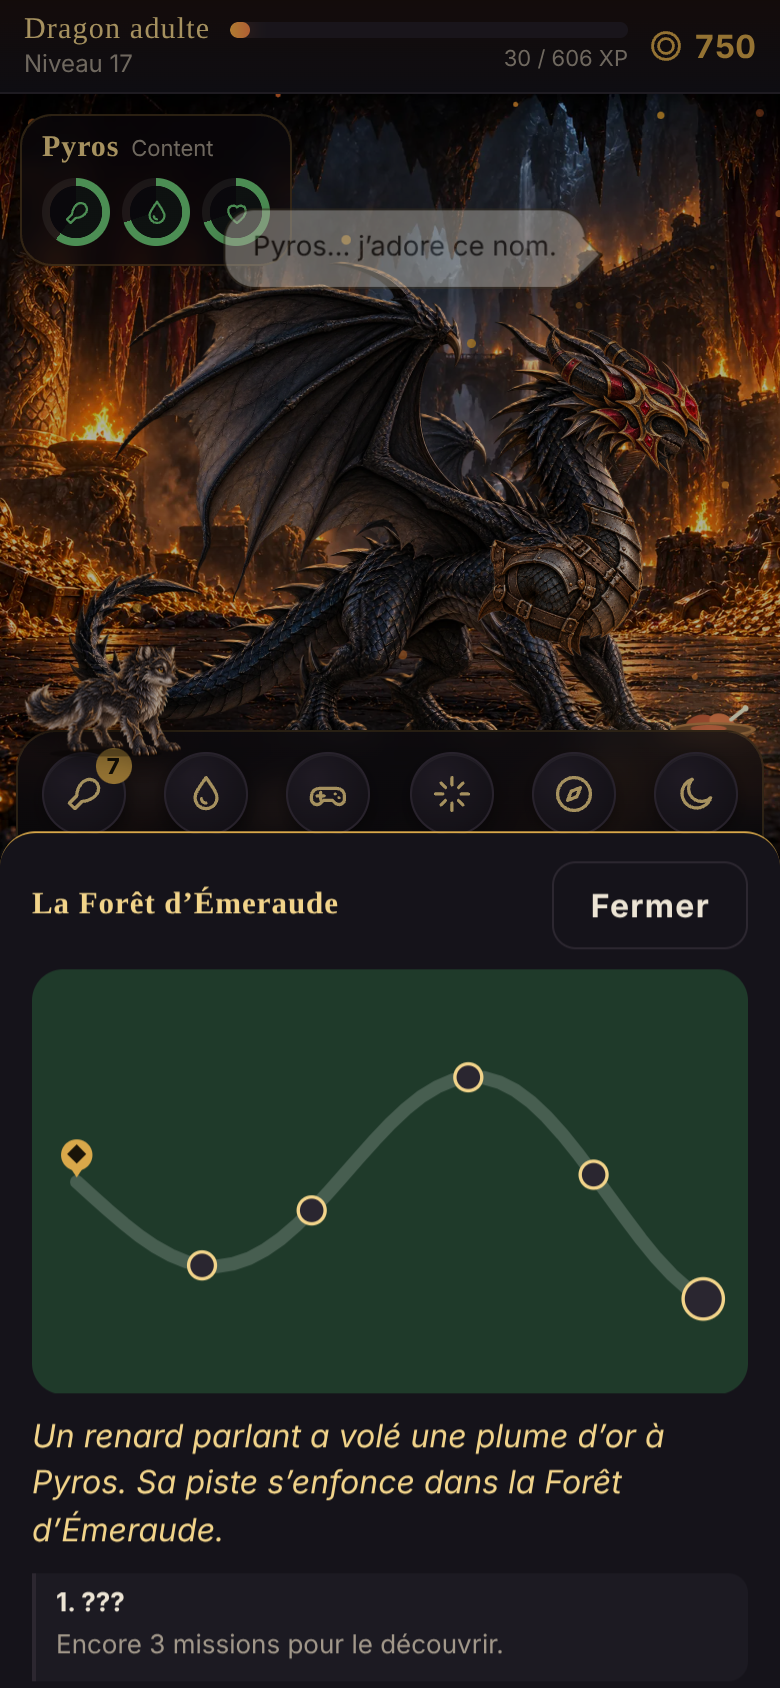
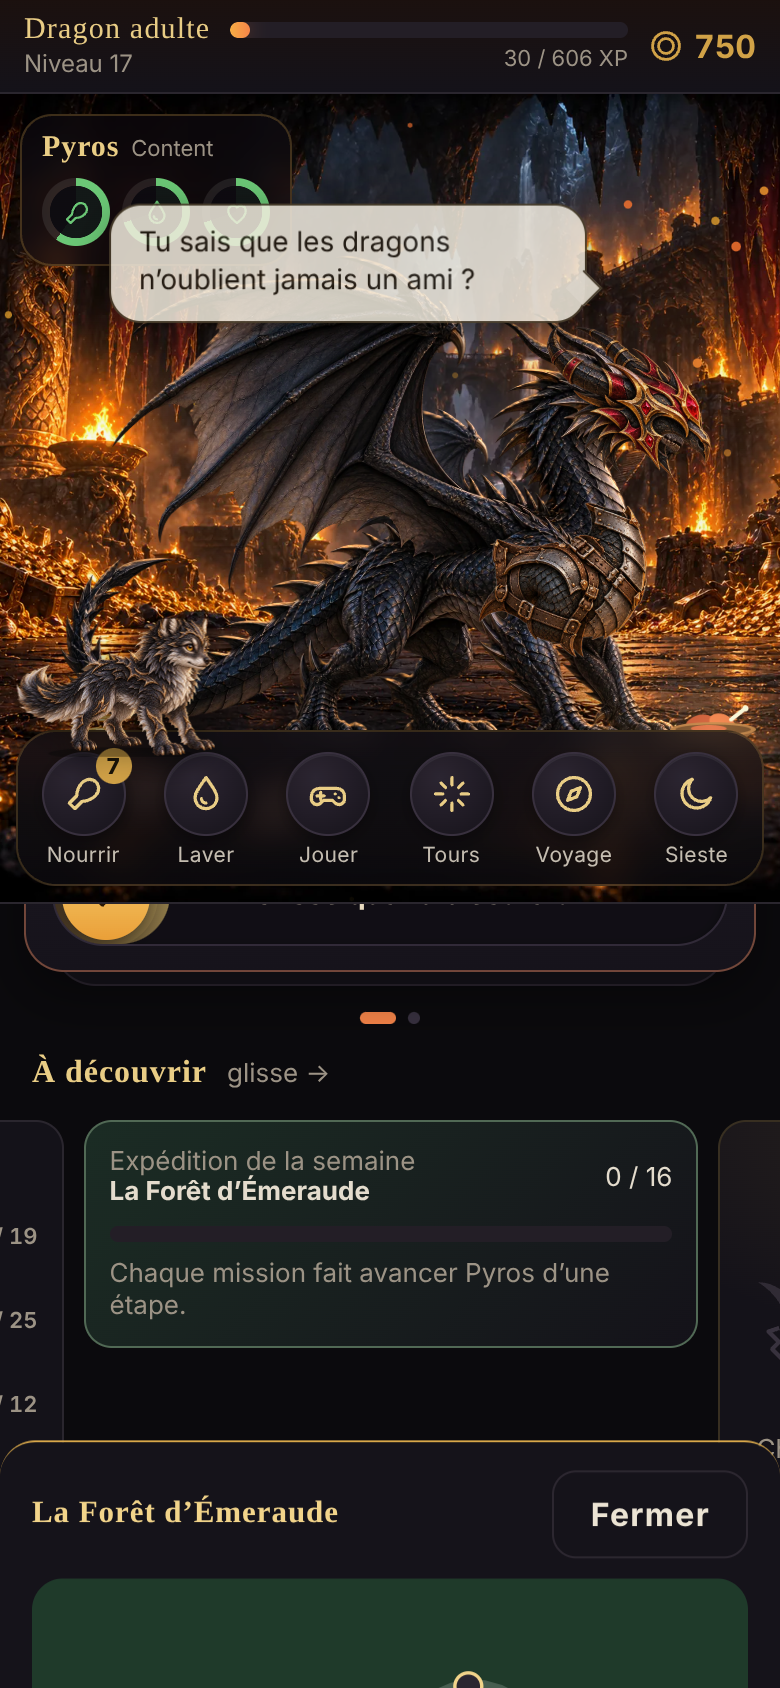
Correctifs : le nid acheté ne recouche plus le dragon au toucher, réveil retenu, carrousel et carte d'amitié
Claude-Session: https://claude.ai/code/session_01M7p8gpSsNEM6T66Za4pvnS

diff --git a/src/ui/App.ts b/src/ui/App.ts
@@ -64,7 +64,7 @@ export interface FamilyContext {
   voyage?: Voyage | null;
 }
 
-export const APP_VERSION = '0.27.1';
+export const APP_VERSION = '0.27.2';
 
 export class App {
   /** Essai en boutique : affiché sur le dragon sans être acheté ni équipé. */
@@ -281,6 +281,9 @@ export class App {
       // couché hier soir et personne n'a encore ouvert ses rideaux ce matin : il dort encore
       const hr = new Date().getHours();
       if (comp.data.blanketDay === nightKey() && (hr >= 20 || hr < 12) && comp.data.morningDay !== todayKey()) this.sleeping = true;
+      // réveillé à la main il y a moins d'une heure : il reste debout (même après avoir fermé et rouvert l'appli)
+      if (Date.now() - (comp.data.wokeAt ?? 0) < 60 * 60000) this.sleeping = false;
+      this.wokenAt = comp.data.wokeAt ?? 0;
       this.applyCare();
       if (this.showingOwn) void view.play(this.sleeping ? 'sleep' : this.baseLoop());
       const away = comp.greet();
@@ -536,7 +539,7 @@ export class App {
   /** Réveil (bouton, rideaux du matin, téléphone secoué). */
   wakeUp(stretch: boolean): void {
     hideDrape();
-    this.wokenAt = Date.now();
+    this.noteWoken();
     this.view.backdrop.night = isNight() ? 1 : 0;
     this.toggleSleep(false);
     void this.view.play('wake').then(() => { if (stretch) void this.view.play('stretch'); });
@@ -560,9 +563,9 @@ export class App {
     if (this.sleeping && !was && comp?.tuck()) this.say(sayFor('tuck'), null, 4000);
     void this.view.play(this.sleeping ? 'sleep' : this.baseLoop());
     if (was && !this.sleeping) setTimeout(() => this.playPendingVisit(), 2000);
-    if (was && !this.sleeping) this.autoSlept = false;
+    if (was && !this.sleeping) { this.autoSlept = false; this.noteWoken(); }
     if (was && !this.sleeping && force === undefined) {
-      this.wokenAt = Date.now();
+      this.noteWoken();
       void this.view.play('wake');
       if (isNight()) this.say(sayFor('wake'), null, 4000);
     }
@@ -577,12 +580,21 @@ export class App {
   private autoSlept = false;
   /** Réveillé à la main la nuit : on le laisse debout 30 min avant de le recoucher. */
   private wokenAt = 0;
+  /** Réveil à la main : retenu (le matin, compte comme « rideaux ouverts »), pour ne pas le recoucher aussitôt. */
+  private noteWoken(): void {
+    this.wokenAt = Date.now();
+    const c = this.family.companion;
+    if (!c) return;
+    c.data.wokeAt = this.wokenAt;
+    if (new Date().getHours() >= 5 && new Date().getHours() < 12) c.data.morningDay = todayKey();
+    c.save();
+  }
   private bedtime(): void {
     if (!this.showingOwn || this.visits.active || this.evolving) return;
     const h = new Date().getHours() + new Date().getMinutes() / 60;
     const night = h >= 21.5 || h < 7;
     const wokeThisMorning = h < 12 && this.family.companion?.data.morningDay === todayKey();
-    if (night && !this.sleeping && !wokeThisMorning && Date.now() - this.wokenAt > 30 * 60000) {
+    if (night && !this.sleeping && !wokeThisMorning && Date.now() - this.wokenAt > 60 * 60000) {
       void this.view.play('yawn');
       setTimeout(() => {
         if (this.sleeping) return;

diff --git a/src/ui/screens/DragonScreen.ts b/src/ui/screens/DragonScreen.ts
@@ -38,8 +38,7 @@ export class DragonScreen implements Screen {
     const discover = [
       eventCard(app), stepsCard(app), dailyChestCard(app), nextStageCard(app), collectionCard(app),
       book ? this.expeditionCard(comp) : null,
-      app.family.duo ? familyQuestCard(app) : null,
-      app.family.duo ? this.friendCard(comp) : null
+      app.family.duo ? familyQuestCard(app) : null
     ].filter((x): x is HTMLElement => !!x);
     put(el,
       todayStrip(app),
@@ -47,6 +46,7 @@ export class DragonScreen implements Screen {
       book ? questDeck(app) : this.careStrip(comp),
       h('div', { class: 'disc-head' }, h('h3', null, 'À découvrir'), h('span', { class: 'small muted' }, 'glisse →')),
       h('div', { class: 'disc' }, ...discover.map(c => h('div', { class: 'disc-item' }, c))),
+      app.family.duo ? this.friendCard(comp) : null,
       h('div', { class: 'ds-tools' },
         h('button', { class: 'ds-tool', onclick: () => openLair(app) }, icon(ICONS.dragon, 22), h('span', null, 'Sa grotte')),
         h('button', { class: 'ds-tool', onclick: () => appearanceSheet(app) }, icon(ICONS.drop, 22), h('span', null, 'Reflets')),

diff --git a/src/ui/Lair.ts b/src/ui/Lair.ts
@@ -218,13 +218,17 @@ export function installLairTaps(app: App): void {
   if (!stage) return;
   stage.addEventListener('pointerdown', e => {
     if (editor || !app.showingOwn || !app.family.companion) return;
+    // seulement les touchers sur la scène elle-même (pas sur le loup, les boutons, les bulles…)
+    if (e.target !== app.view.canvas) return;
     const p = app.view.toCanvas(e.clientX, e.clientY);
     const hit = app.view.decor.hit(p.x, p.y, true);
     if (hit) { e.stopPropagation(); e.preventDefault(); tidy(app, hit.key); return; }
-    // outils de la grotte (gamelle, bassin, coffre, nid acheté)
+    // outils de la grotte (gamelle, bassin, coffre, nid acheté) ; un objet derrière le dragon ne lui vole pas ses caresses
     const any = app.view.decor.hit(p.x, p.y);
     const action = any ? toolAction(any.key) : null;
     if (!action || !any) return;
+    const item = app.view.decor.items.find(i => i.key === any.key);
+    if (!item?.front && app.view.hitTest(e.clientX, e.clientY)) return;
     e.stopPropagation(); e.preventDefault();
     useTool(app, action);
   }, { capture: true });

diff --git a/www/css/care.css b/www/css/care.css
@@ -99,6 +99,9 @@
   background: linear-gradient(180deg, rgba(40,30,14,.88), rgba(20,15,8,.92)); color: var(--gold); font-weight: 700; font-size: 13px; cursor: pointer; animation: vy-pulse 2s ease-in-out infinite; }
 .sh-pending[hidden] { display: none; }
 
+/* ----- Carrousel « À découvrir » : chaque carte garde sa hauteur ----- */
+.disc { align-items: flex-start; }
+
 /* ----- Le loup ----- */
 .wolf-heart { position: absolute; z-index: 5; color: #ff7a9a; pointer-events: none; filter: drop-shadow(0 0 6px rgba(255,120,150,.6)); }
 .wolf-heart svg { fill: currentColor; }

diff --git a/src/family/Companion.ts b/src/family/Companion.ts
@@ -82,6 +82,8 @@ interface Data {
   fedDay?: string;
   washedDay?: string;
   routineDay?: string;
+  /** Réveillé à la main (heure) : on le laisse debout un moment, même si l'appli est rouverte. */
+  wokeAt?: number;
 }
 
 /** Répétitions pour 1, 2 et 3 étoiles de maîtrise (au plus 2 comptées par tour et par jour). */
